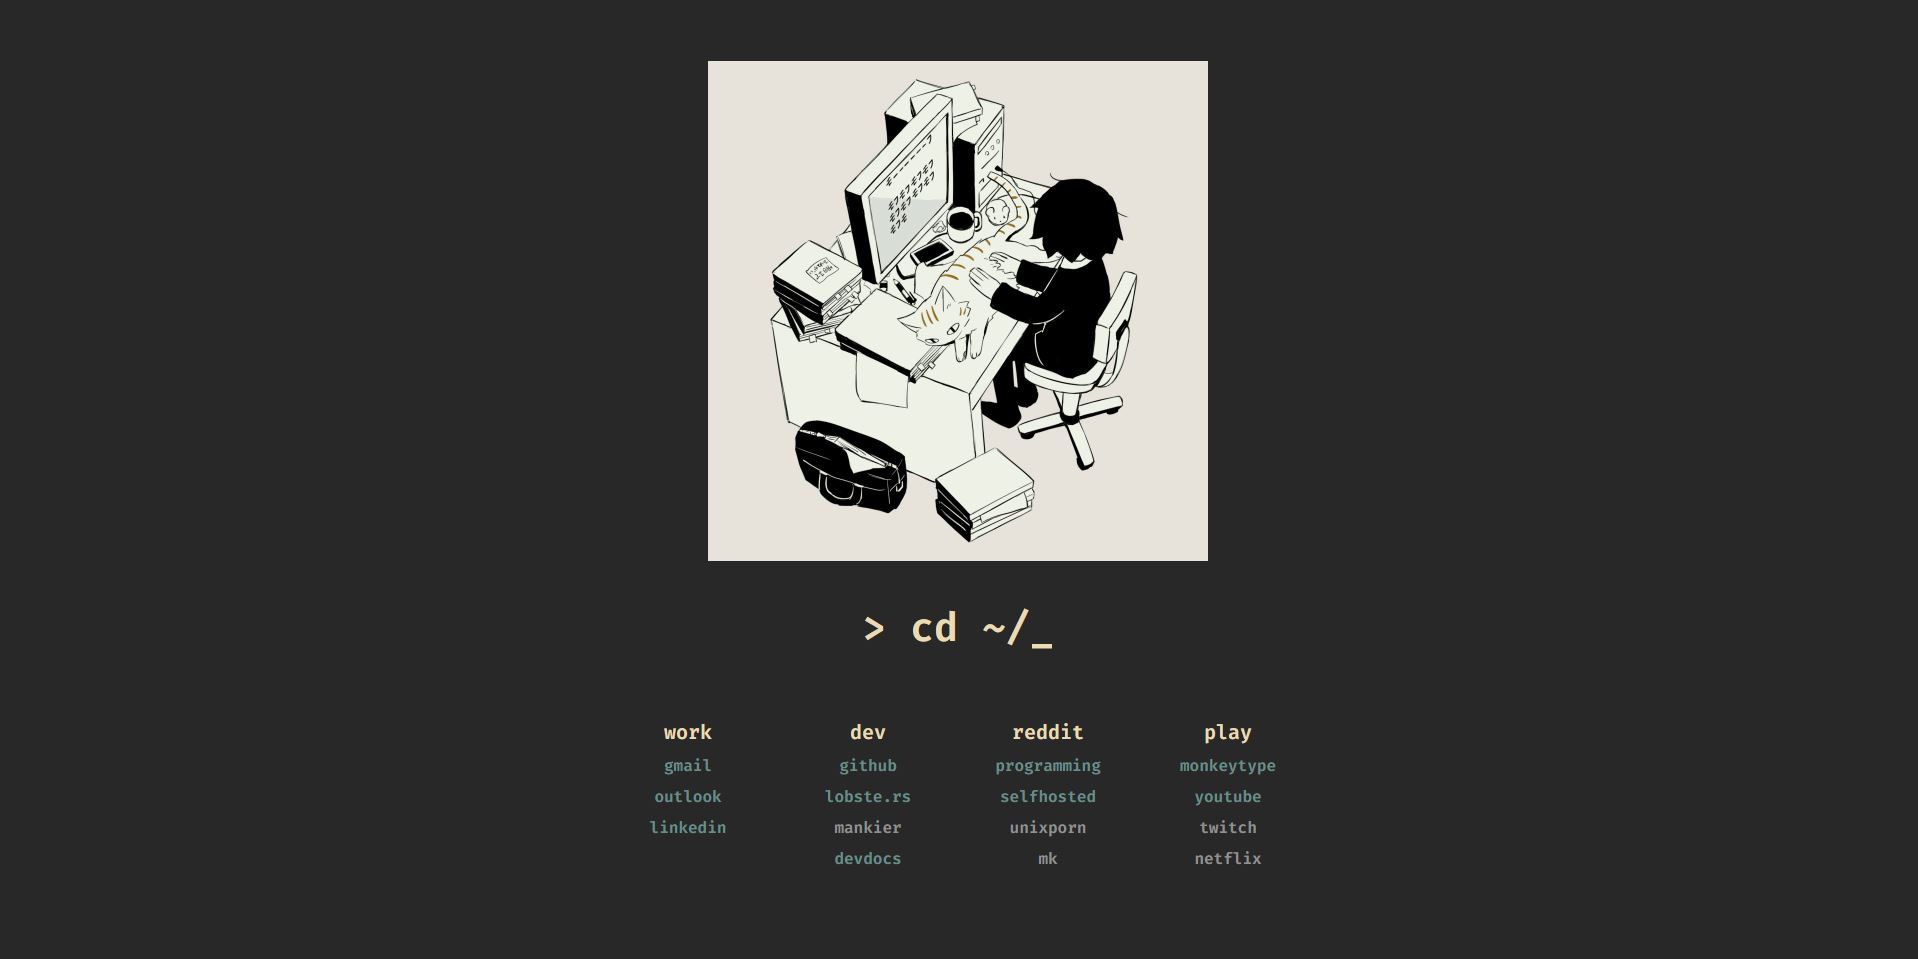
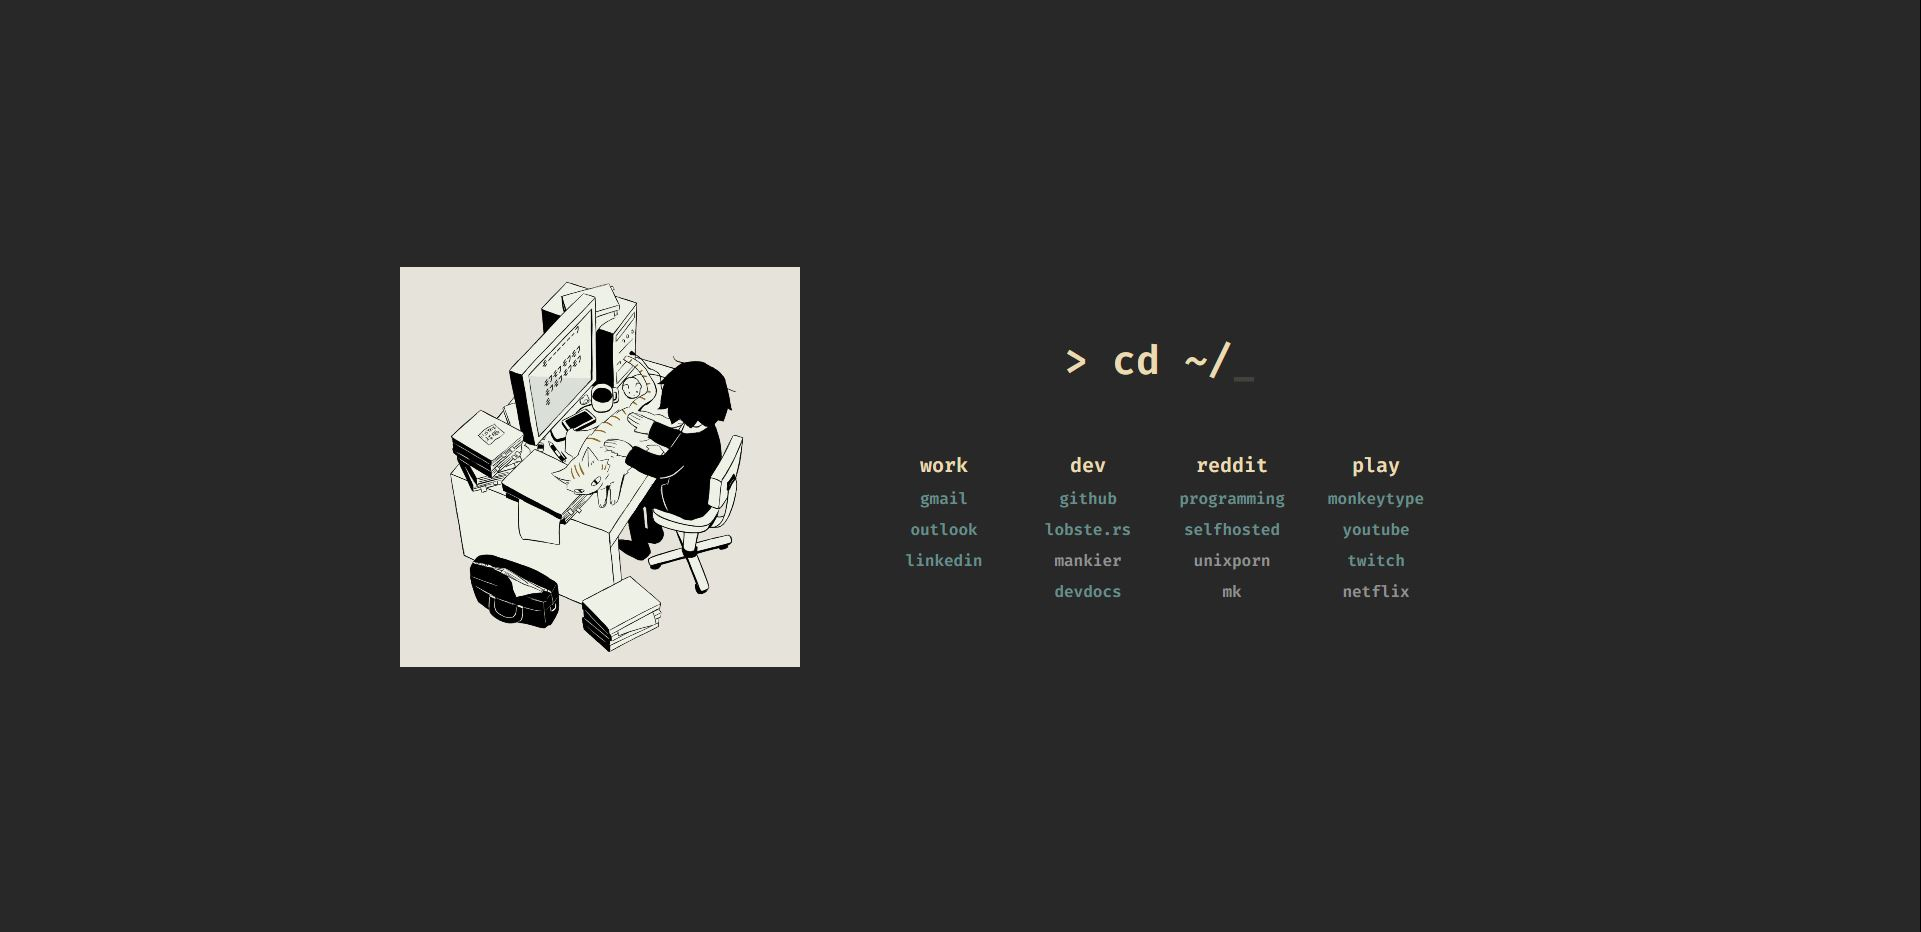
Switched from flex to grid CSS

diff --git a/index.html b/index.html
@@ -9,60 +9,65 @@
 
 <body>
     <div class="container">
-        <div class="gif">
-            <img src="cat.gif" />
-        </div>
-        <div class="head">
-            <p>> cd ~/<span class="blinking">_</span></p>
+        <div class="left-container">
+            <div class="gif">
+                <img src="cat.gif" />
+            </div>
         </div>
 
-        <!-- <div class="search_box">
+        <div class="right-container">
+            <div class="head">
+                <p>> cd ~/<span class="blinking">_</span></p>
+            </div>
+
+            <!-- search bar -->
+            <!-- <div class="search_box">
             <form action="https://duckduckgo.com/" method="get">
                 <input class="input_box" type="text" placeholder="ddg" autocomplete="off">
             </form>
         </div> -->
 
-        <div class="bookmark">
+            <div class="bookmark">
 
-            <div class="category">
-                <div class="bookmarks">
-                    <li class="title">work</li>
-                    <li><a href="https://gmail.com" target="_blank" rel="noopener noreferrer">gmail</a></li>
-                    <li><a href="https://outlook.office.com">outlook</a></li>
-                    <li><a href="https://linkedin.com">linkedin</a></li>
+                <div class="category">
+                    <div class="bookmarks">
+                        <li class="title">work</li>
+                        <li><a href="https://gmail.com" target="_blank" rel="noopener noreferrer">gmail</a></li>
+                        <li><a href="https://outlook.office.com">outlook</a></li>
+                        <li><a href="https://linkedin.com">linkedin</a></li>
+                    </div>
+                </div>
+
+                <div class="category">
+                    <div class="bookmarks">
+                        <li class="title">dev</li>
+                        <li><a href="https://github.com/">github</a></li>
+                        <li><a href="https://github.com/">lobste.rs</a></li>
+                        <li><a href="https://mankier.com/">mankier</a></li>
+                        <li><a href="https://devdocs.io/">devdocs</a></li>
+                    </div>
+                </div>
+
+                <div class="category">
+                    <div class="bookmarks">
+                        <li class="title"><a style="color: #EADBB2" href="https://reddit.com">reddit</a></li>
+                        <li><a href="https://reddit.com/r/programming/">programming</a></li>
+                        <li><a href="https://reddit.com/r/selfhosted/">selfhosted</a></li>
+                        <li><a href="https://reddit.com/r/unixporn/">unixporn</a></li>
+                        <li><a href="https://reddit.com/r/mechanicalkeyboards/">mk</a></li>
+                    </div>
+                </div>
+
+                <div class="category">
+                    <div class="bookmarks">
+                        <li class="title">play</li>
+                        <li><a href="https://monkeytype.com/">monkeytype</a></li>
+                        <li><a href="https://youtube.com/">youtube</a></li>
+                        <li><a href="https://twitch.tv/">twitch</a></li>
+                        <li><a href="https://netflix.com/">netflix</a></li>
+                    </div>
                 </div>
             </div>
-
-            <div class="category">
-                <div class="bookmarks">
-                    <li class="title">dev</li>
-                    <li><a href="https://github.com/">github</a></li>
-                    <li><a href="https://github.com/">lobste.rs</a></li>
-                    <li><a href="https://mankier.com/">mankier</a></li>
-                    <li><a href="https://devdocs.io/">devdocs</a></li>
-                </div>
-            </div>
-
-            <div class="category">
-                <div class="bookmarks">
-                    <li class="title"><a style="color: #EADBB2" href="https://reddit.com">reddit</a></li>
-                    <li><a href="https://reddit.com/r/programming/">programming</a></li>
-                    <li><a href="https://reddit.com/r/selfhosted/">selfhosted</a></li>
-                    <li><a href="https://reddit.com/r/unixporn/">unixporn</a></li>
-                    <li><a href="https://reddit.com/r/mechanicalkeyboards/">mk</a></li>
-                </div>
-            </div>
-
-            <div class="category">
-                <div class="bookmarks">
-                    <li class="title">play</li>
-                    <li><a href="https://monkeytype.com/">monkeytype</a></li>
-                    <li><a href="https://youtube.com/">youtube</a></li>
-                    <li><a href="https://twitch.tv/">twitch</a></li>
-                    <li><a href="https://netflix.com/">netflix</a></li>
-                </div>
-            </div>
-
         </div>
     </div>
 </body>

diff --git a/style.css b/style.css
@@ -1,16 +1,11 @@
 html{
-  display: flex;
-  flex-flow: row nowrap;
-  justify-content: center;
-  align-content: center;
-  align-items: center;
+  background:#282828;
+  font-family: "Fira Code";
   height: 100%;
   width: 100%;
   margin: 0;
   padding: 0;
-  background:#282828;
-  font-family: "Fira Code";
-    }
+}
 
 body {
   background: #282828;
@@ -22,20 +17,26 @@ body {
 }
 
 .container {
-  display: flex;
-  flex-direction: column;
+  display: grid;
+  grid-template-columns: 1fr 1fr 1fr 1fr;
+  grid-template-areas:
+    ". left right .";
+  justify-items: center;
+  align-items: center;
   height: 100%;
   width: 100%;
-  justify-content: center;
-  align-items: center;
 }
 
-.gif {
-  display: flex;
-  flex-direction: column;
-  align-items: center;
-  height: 500px;
-  width: 500px;
+.left-container {
+  grid-area: left;
+  height: 400px;
+  width: 400px;
+}
+
+.right-container {
+  grid-area: right;
+  height: 50%;
+  width: 80%;
 }
 
 .gif img {
@@ -48,36 +49,8 @@ body {
   flex-direction: column;
   align-items: center;
   font-size: 40px;
+  padding-top: 60px;
 }
-
-/* form {
-  margin: 0px;
-  padding: 0px;
-}
-
-.search_box {
-  display: flex;
-  align-self: center;
-  border: 4px solid;
-  border-color: rgba(234, 219, 178,0.6);
-  border-radius: 10px;
-  width: 400px;
-  height: 48px;
-  margin-bottom: 40px;
-}
-
-.input_box {
-  border: none;
-  outline: none;
-  background: none;
-  width: 380px;
-  padding-top: 12px;
-
-  text-align:center;
-  font-family: "Fira Code";
-  font-size: 20px;
-  color: #EADBB2;
-} */
 
 .category {
   display: flex;
@@ -139,3 +112,32 @@ a:hover {
     opacity: 1;
   }
 }
+
+/* form {
+  margin: 0px;
+  padding: 0px;
+}
+
+.search_box {
+  display: flex;
+  align-self: center;
+  border: 4px solid;
+  border-color: rgba(234, 219, 178,0.6);
+  border-radius: 10px;
+  width: 400px;
+  height: 48px;
+  margin-bottom: 40px;
+}
+
+.input_box {
+  border: none;
+  outline: none;
+  background: none;
+  width: 380px;
+  padding-top: 12px;
+
+  text-align:center;
+  font-family: "Fira Code";
+  font-size: 20px;
+  color: #EADBB2;
+} */

diff --git a/README.md b/README.md
@@ -1,7 +1,10 @@
 # Startpage
 
-Custom minimalist browser startpage. Heavily borrowed from [Prismatic-Night](https://github.com/3r3bu5x9/Prismatic-Night).
+Custom browser startpage. Template tweaked from [Prismatic-Night](https://github.com/3r3bu5x9/Prismatic-Night).
 
-Feel free to fork.
+Font: Fira Code Nerd Font
+
+Colorscheme: Gruvbox Dark
 
 ![screenshot](screenshot.JPG)
+cat
